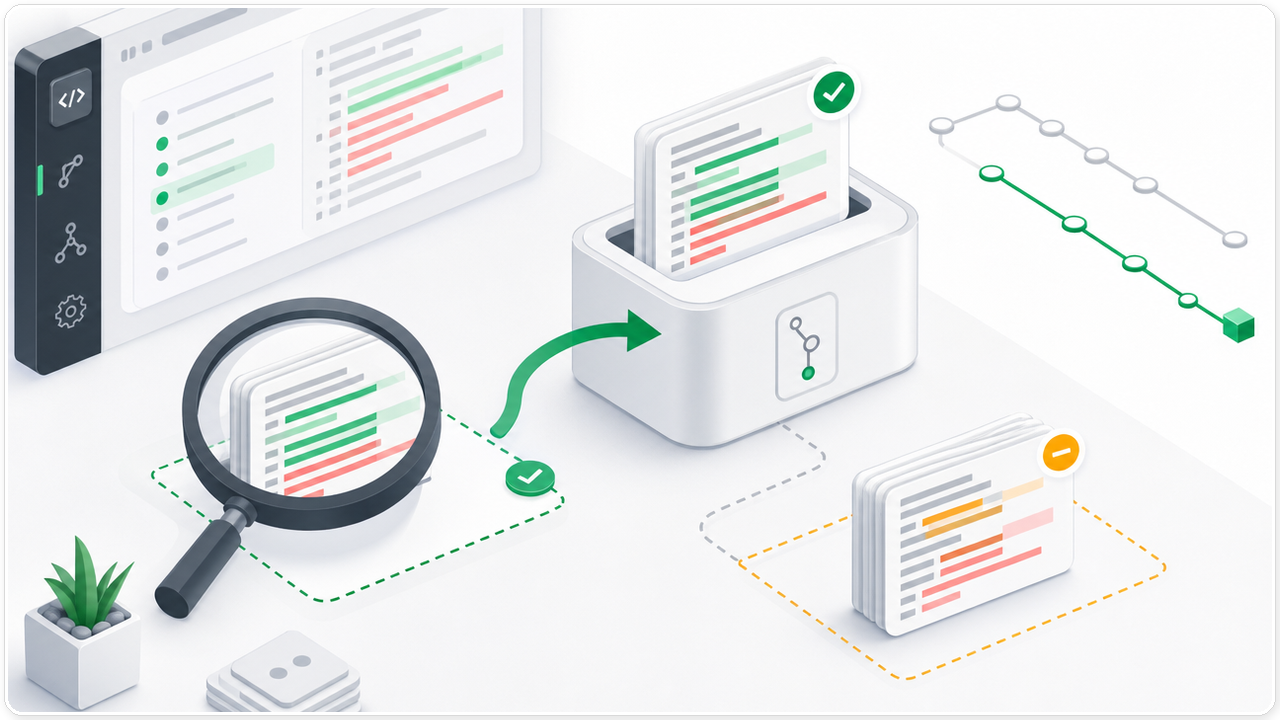
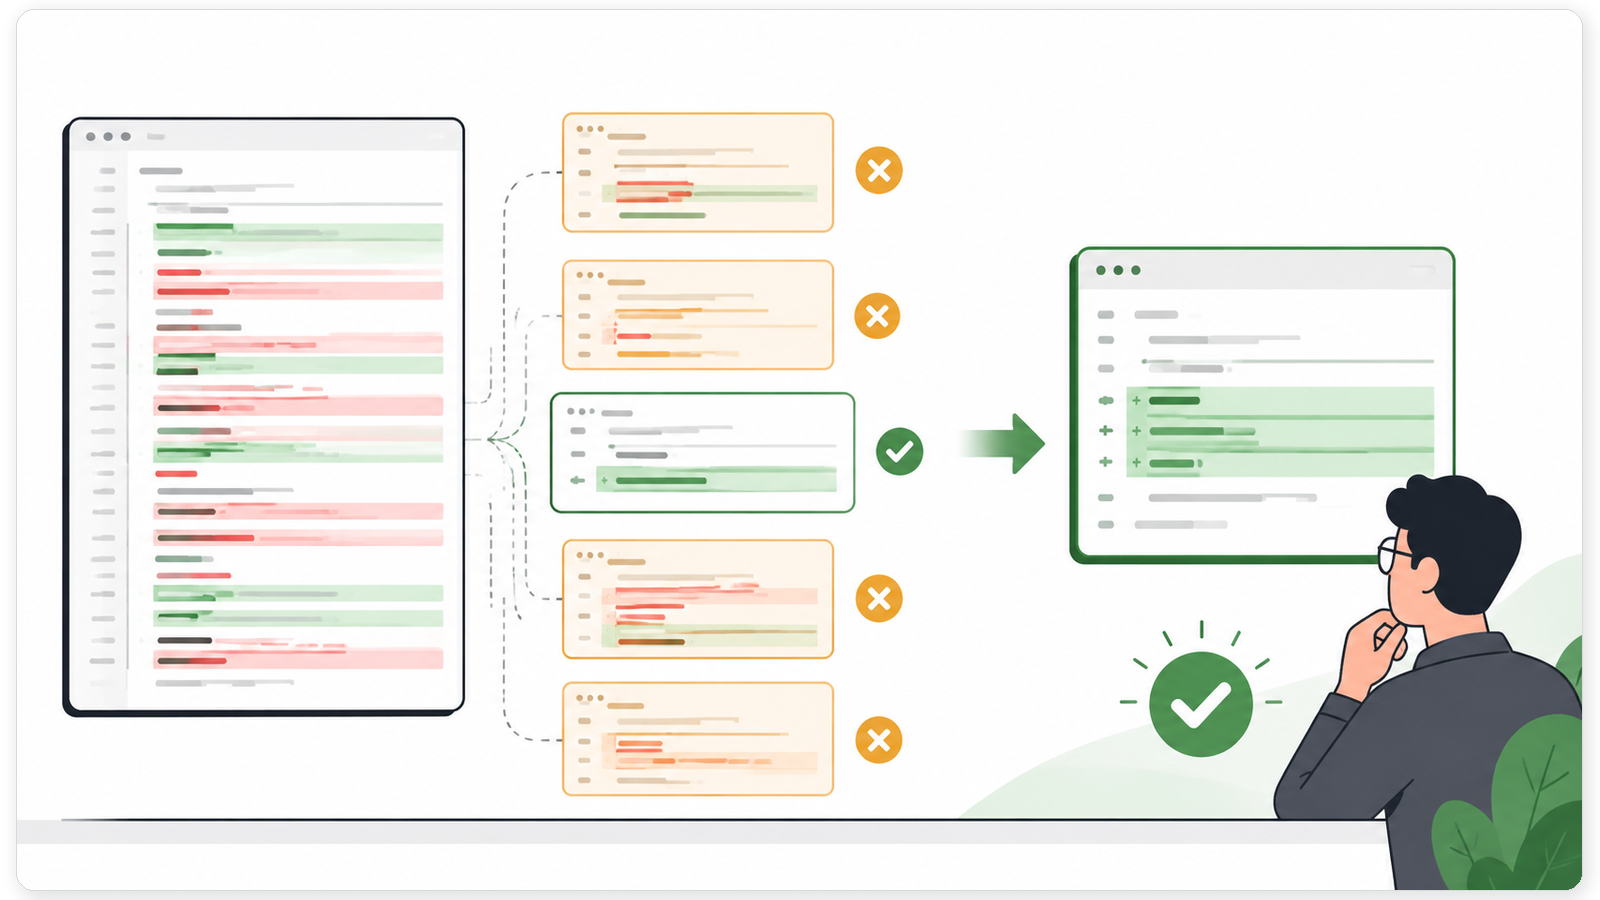
docs(gzhwz): 压缩可审查提交教程并更新配图

diff --git a/05-Git协作与代码审查/05-怎样写出可审查的Commit和PR-范围验证证据与风险-图片备份-20260903-2116/gzhwz-processing-report.md b/05-Git协作与代码审查/05-怎样写出可审查的Commit和PR-范围验证证据与风险-图片备份-20260903-2116/gzhwz-processing-report.md
@@ -24,11 +24,11 @@
 
 | 正文编号 | 原始素材 | 处理后文件 | 类型 | 尺寸 | 验收 |
 |---|---|---|---|---|---|
-| 图一 | `hiapi-source/01-hiapi-commit-scope.png` | `正文配图/图一.png` | HiAPI 生成概念插图 | 1280×720，16:9 | 已用 `view_image` 检查。表达 diff 进入聚焦提交、无关修改留在工作区；无可读账号、路径、Token、Logo、二维码或水印。 |
+| 图一 | `hiapi-source/01-hiapi-commit-scope-20260904.png` | `正文配图/图一.png` | HiAPI 生成概念插图 | 1600×900，16:9 | 已用 `view_image` 检查。表达 diff 进入聚焦提交、无关修改留在工作区；无可读账号、路径、Token、Logo、二维码或水印；四角透明、边框和阴影符合一号样式。 |
 | 图二 | `manual/02-terminal-initialize.png` | `正文配图/图二.png` | 终端案例截图 | 2016×656，原始比例 | 保留初始化结果、示例文件创建、工作区状态和 `git diff --stat`；本机路径及初始化输出中的完整目录已用不可逆纯色遮挡，命令和结果可读。 |
 | 图三 | `manual/03-terminal-diff.png` | `正文配图/图三.png` | 终端案例截图 | 2016×1046，原始比例 | 保留 `git diff --check`、完整 diff、README.md 与 login.txt 的变化；本机路径已遮挡，diff 文字和颜色可读。 |
 | 图四 | `manual/04-terminal-commit.png` | `正文配图/图四.png` | 终端案例截图 | 2016×1472，原始比例 | 保留 `git add -p`、暂存区检查、提交、`git show` 和最终状态；本机路径已遮挡，提交信息和范围结果可读。 |
-| 图五 | `hiapi-source/02-hiapi-pr-description.png` | `正文配图/图五.png` | HiAPI 生成概念插图 | 1280×720，16:9 | 已用 `view_image` 检查。表达 PR 描述的改动、动机、验证、风险和待确认字段；无可读账号、路径、Token、Logo、二维码或水印。 |
+| 图五 | `hiapi-source/02-hiapi-pr-evidence-20260904.png` | `正文配图/图五.png` | HiAPI 生成概念插图 | 1600×900，16:9 | 已用 `view_image` 检查。表达 PR 描述的改动、动机、验证、风险与回滚字段关系；无可读账号、路径、Token、Logo、二维码或水印；四角透明、边框和阴影符合一号样式。 |
 | 图六 | `online/diff-settings-menu.png` | `正文配图/图六.png` | GitHub Docs 官方界面截图 | 2304×672，原始比例 | 已用 `view_image` 检查。保留 Files changed、Unified/Split 和 Hide whitespace 设置；示例仓库内容不作为本文测试结果。 |
 
 ## 网络素材记录
@@ -42,9 +42,9 @@
 - 模型：`gpt-image-2/text-to-image`
 - 参数：`resolution=1K`、`aspect_ratio=16:9`
 - 调用前已执行 dry-run，确认模型、比例、运行环境和密钥存在状态；dry-run 未提交生成任务。
-- 入选图一任务：`tk-hiapi-01M1NRN8JWYMG739PQWCPX3AE1`。
-- 入选图三任务：`tk-hiapi-01M1NRNBFTXP2BW4D4MVVG674Z`。
-- 另有探索任务 `tk-hiapi-01M1NRNEFTWZM7JY8PRS9YYEVQ` 已成功生成，但未进入发布正文，也不计入正文配图数量。三项任务的生成原图均未覆盖，入选发布图由本地 Pillow 处理。
+- 新图一任务：`tk-hiapi-01M1PGW7ZARGHX41VFA28N5KA2`。
+- 新图五任务：`tk-hiapi-01M1PGW7ZQZ5SK449JTT6VR511`。
+- 两项任务均成功生成并下载原图，随后由本地 Pillow 处理为 `1600×900` 透明圆角画布；旧版 HiAPI 原图和旧版发布图仍保留在备份工作区，未覆盖。
 - 提示词要求无文字、无品牌、无账号、无路径、无 Token、无二维码、无水印；生成后已用 `view_image` 检查。
 
 ## 封面生成
@@ -95,3 +95,9 @@ exception_reason: none
 - 正文未出现“用户提供”“用户素材”“用户截图”“投稿截图”“作者截图”、本机绝对路径、内部处理文件名或任务 ID。
 - 封面为 940×400、2.35:1，标题和视觉主体已通过 `view_image` 验收；原始生成图保留在 `online/cover-generated-original.png`。
 - 仍需确认：GitHub Docs 界面可能随平台更新；网站 CTA 的发布后点击数据待记录。
+
+## 本轮篇幅处理
+
+- 正文压缩并重新排序后约 4712 个文件字符、2338 个中文字符，保留六张正文图、PR 模板、网站 CTA、微信 CTA 和参考资料。
+- `check_prose.py` 的硬性规则检查无 AI 黑话、重复段落和重复句，但其固定的中文字符下限为 3000；本篇按用户指定的约 2500 字篇幅保留 2338 个中文字符，过短项属于篇幅目标与脚本阈值冲突，未通过增加重复内容规避。
+- 工作区校验：`validate_gzh_workspace.py` 通过；正文图片引用、发布目录、透明角和尺寸检查通过。

diff --git a/05-Git协作与代码审查/05-怎样写出可审查的Commit和PR-范围验证证据与风险-图片备份-20260903-2116/environment.md b/05-Git协作与代码审查/05-怎样写出可审查的Commit和PR-范围验证证据与风险-图片备份-20260903-2116/environment.md
@@ -33,3 +33,10 @@
 - 完整提示词保存在 `发布素材/prompts/01-cover-commit-pr-review.md`。
 - 原始生成文件由工具保存为 `D:\CodexHome\generated_images\01a069fa-87e9-7002-ae3f-94c4dd155f77\call_lwS4uepNMbOYtmVkipebTEM7.png`，尺寸为 1922×818。
 - 发布封面使用 Pillow 缩放为 940×400；未进行文字重绘、擦除或覆盖。
+
+## 本轮 HiAPI 生成记录
+
+- 2026-09-04 使用已存在的 `HIAPI_API_KEY` 调用 `https://api.hiapi.ai/v1/tasks`，模型为 `gpt-image-2/text-to-image`，输入参数为 `resolution=1K`、`aspect_ratio=16:9`。
+- 生成前执行本地 dry-run，仅检查 endpoint、模型、比例、密钥存在状态和提示词长度，未提交任务。
+- 任务 `tk-hiapi-01M1PGW7ZARGHX41VFA28N5KA2` 与 `tk-hiapi-01M1PGW7ZQZ5SK449JTT6VR511` 均返回 `success`，原图下载到 `hiapi-source/`；未记录密钥值。
+- 原图经 Pillow 12.3.0 处理为 `1600×900` 透明圆角画布，发布图替换为 `发布素材/正文配图/图一.png` 与 `图五.png`；两张成品均用 `view_image` 验收。
